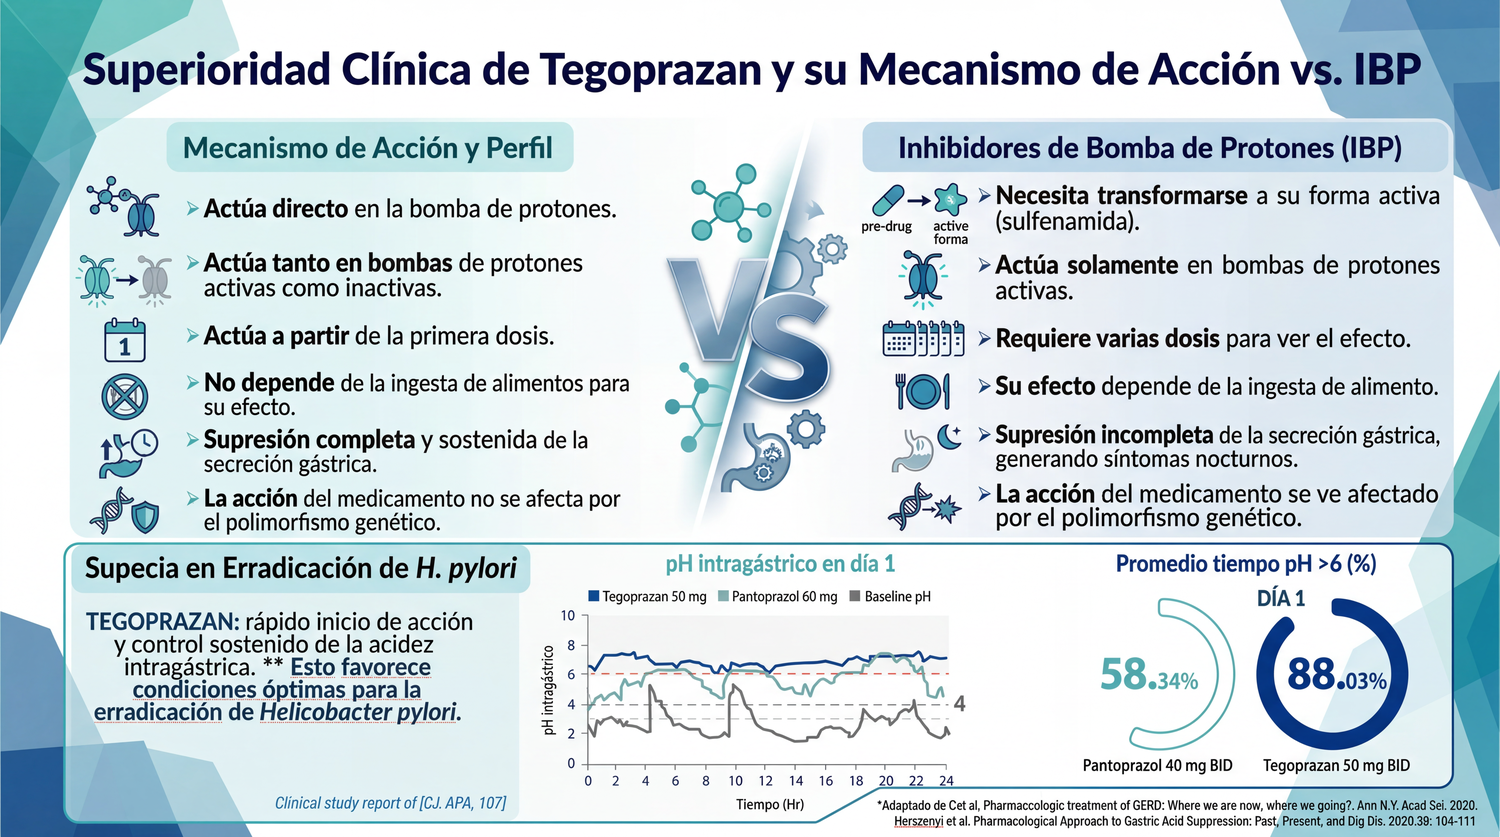
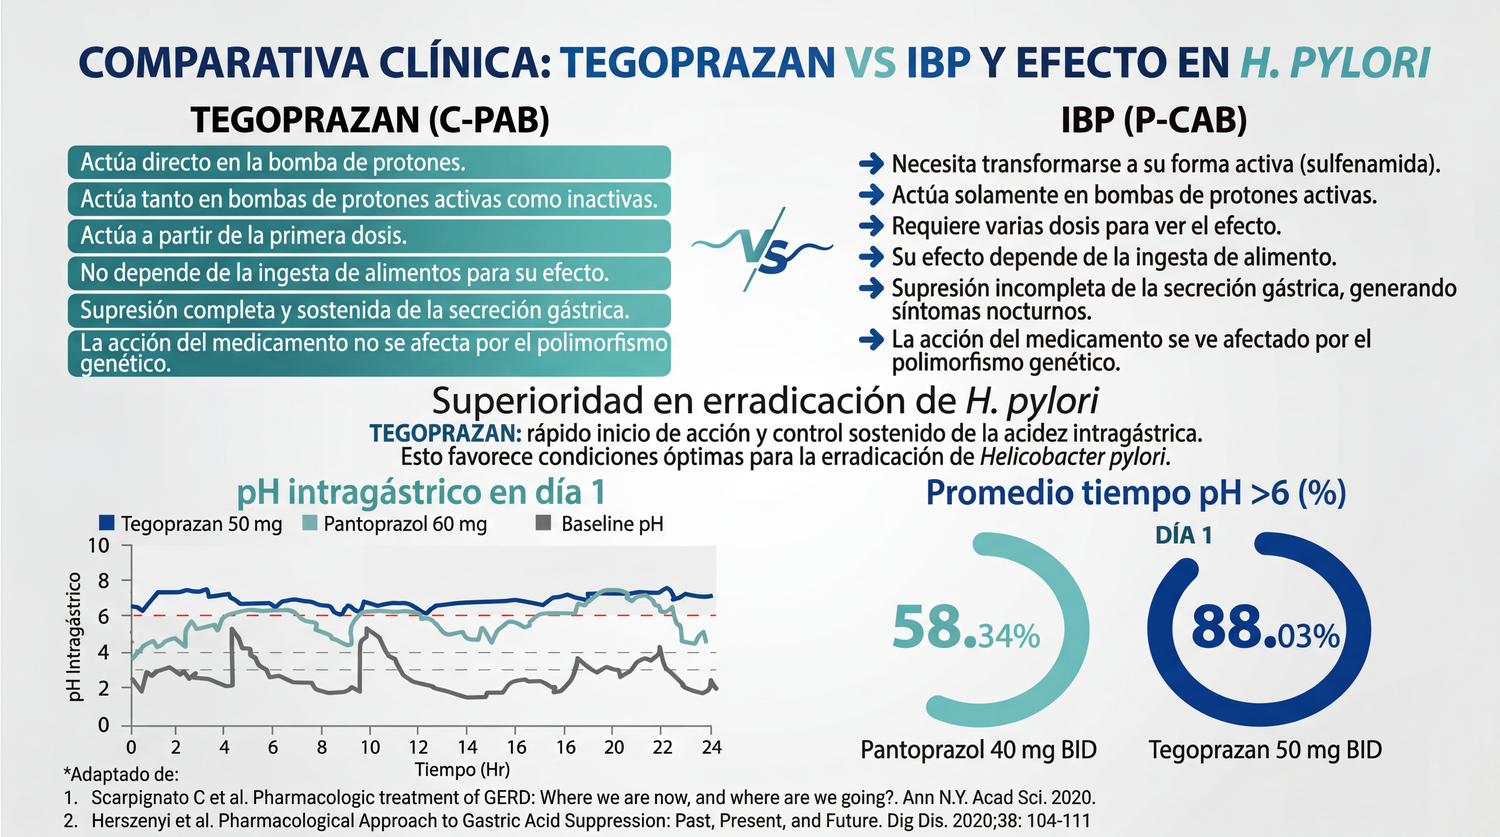
Auto-cierre+silbato al llegar a 0; VAR caso1 y caso3 a imagen completa (evidencia_hpylori/evidencia3); textos P2 y P4; cortinillas 2/3 nuevas

diff --git a/pantalla/index.html b/pantalla/index.html
@@ -55,6 +55,7 @@
   .evidrow{display:flex;gap:26px;align-items:center}
   .evidrow ul{flex:1;margin:0;padding-left:22px}
   .evidimg{flex:0 0 44%;max-width:44%;max-height:48vh;border-radius:12px;background:#fff}
+  .varfull{max-width:100%;max-height:94vh;width:auto;display:block;border-radius:8px}
   .evid h3{font-size:30px;margin:0 0 14px}
   .evid li{font-size:21px;line-height:1.35;margin-bottom:9px}
   .caseimg{display:block;max-width:100%;max-height:40vh;border-radius:12px;margin:10px 0 16px}
@@ -121,7 +122,7 @@
 const scene = document.getElementById("scene");
 const casoLbl = document.getElementById("casoLbl");
 let STATE = { evento:{estado:"lobby",caso_actual:1}, equipos:{}, jugadores:{}, respuestas:{}, var_solicitudes:{} };
-let lastReactKey = null, timerInt = null;
+let lastReactKey = null, timerInt = null, autoClosed = false;
 
 /* ---- Cortinillas de video (precarga + audio) ---- */
 const CORT_URLS = {};   // archivo -> blob URL tras precargar
@@ -313,13 +314,16 @@ function render(){
     }
   }
   else if(e==="var"){
-    const ev = c.evidencia||{titulo:"Evidencia",puntos:[]};
-    const evimg = c.evidencia_imagen ? `<img class="evidimg" src="../assets/${c.evidencia_imagen}" alt="" onerror="this.style.display='none'">` : "";
-    scene.innerHTML = `<div class="tag" style="color:var(--red)">VAR de la evidencia</div>
-      <div class="evid pop"><h3>${escapeHTML(ev.titulo)}</h3>
-        <div class="evidrow"><ul>${ev.puntos.map(p=>`<li>${escapeHTML(p)}</li>`).join("")}</ul>${evimg}</div>
-        <div style="margin-top:14px;color:var(--green);font-weight:800;font-size:22px">✔ Validado por el profesor experto</div>
-        ${(c.fuentes&&c.fuentes.length)?`<div class="fuentes">Fuentes: ${c.fuentes.map(escapeHTML).join("<br>")}</div>`:""}</div>`;
+    if(c.evidencia_imagen){
+      scene.innerHTML = `<img class="varfull" src="../assets/${c.evidencia_imagen}" alt="">`;
+    } else {
+      const ev = c.evidencia||{titulo:"Evidencia",puntos:[]};
+      scene.innerHTML = `<div class="tag" style="color:var(--red)">VAR de la evidencia</div>
+        <div class="evid pop"><h3>${escapeHTML(ev.titulo)}</h3>
+          <ul>${ev.puntos.map(p=>`<li>${escapeHTML(p)}</li>`).join("")}</ul>
+          <div style="margin-top:14px;color:var(--green);font-weight:800;font-size:22px">✔ Validado por el profesor experto</div>
+          ${(c.fuentes&&c.fuentes.length)?`<div class="fuentes">Fuentes: ${c.fuentes.map(escapeHTML).join("<br>")}</div>`:""}</div>`;
+    }
   }
   else if(e==="cierre"){
     scene.innerHTML = `<div class="big pop" style="font-size:54px">Siguiente jugada…</div>`;
@@ -356,6 +360,10 @@ function startTimer(){
     const s = segRestantes(cron);
     if(el){ el.textContent = s; el.className = "timer" + (s<=5?" crit":(s<=10?" low":"")); }
     if(cntEl) cntEl.textContent = nRespuestas();
+    if(s<=0 && STATE.evento.estado==="responder" && cron && cron.corriendo && !autoClosed){
+      autoClosed = true;
+      db.ref("evento").update({ estado:"bloqueo", cronometro:Object.assign({}, cron, {corriendo:false}) });
+    }
   }
   tick();
   timerInt = setInterval(tick, 250);
@@ -372,7 +380,12 @@ function floatReaction(emoji){
 fbOnReady(()=>{
   document.getElementById("cfgnote").textContent = "";
   watchServerOffset(db);
-  db.ref("evento").on("value", s => { STATE.evento = s.val() || {estado:"lobby",caso_actual:1}; render(); });
+  db.ref("evento").on("value", s => {
+    const prev = STATE.evento.estado;
+    STATE.evento = s.val() || {estado:"lobby",caso_actual:1};
+    if(STATE.evento.estado==="responder" && prev!=="responder") autoClosed=false;
+    render();
+  });
   db.ref("equipos").on("value", s => { STATE.equipos = s.val() || {}; render(); });
   db.ref("jugadores").on("value", s => { STATE.jugadores = s.val() || {}; if(STATE.evento.estado!=="responder") render(); });
   db.ref("respuestas").on("value", s => { STATE.respuestas = s.val() || {}; });

diff --git a/assets/cases.js b/assets/cases.js
@@ -52,7 +52,7 @@ const CASOS = [
     id: 2,
     cortinilla: "cortinilla2.mp4",
     caso: "",
-    pregunta: "¿Cuánto tiempo se dará tratamiento para la esofagitis leve grado B?",
+    pregunta: "¿Cuánto tiempo se dará tratamiento para la esofagitis leve grado B a este paciente?",
     opciones: {
       A: "tegoprazan 50 mg cada 12 horas por 2 meses",
       B: "Tegoprazan 50 mg cada 24 horas por 2 meses y a demanda",
@@ -96,6 +96,7 @@ const CASOS = [
         "El tegoprazán (P-CAB) eleva y sostiene el pH, mejorando la eficacia de los antibióticos."
       ]
     },
+    evidencia_imagen: "evidencia3.png",
     fuentes: [
       "J.M. Remes-Troche et al. V consenso mexicano sobre el diagnóstico y tratamiento de la infección por Helicobacter pylori. Rev Gastroenterol Méx. 2026;91:89-114."
     ],
@@ -105,7 +106,7 @@ const CASOS = [
     id: 4,
     cortinilla: "cortinilla4.mp4",
     caso: "Tras completar el tratamiento erradicador de H. pylori, el paciente mejora significativamente de la epigastralgia.",
-    pregunta: "¿Cuál es el siguiente paso recomendado para confirmar el éxito terapéutico?",
+    pregunta: "Tras completar el tratamiento erradicador de H. pylori, el paciente mejora significativamente de la epigastralgia. ¿Cuál es el siguiente paso recomendado para confirmar el éxito terapéutico?",
     opciones: {
       A: "Repetir endoscopia digestiva alta inmediatamente.",
       B: "Solicitar serología IgG para H. pylori.",